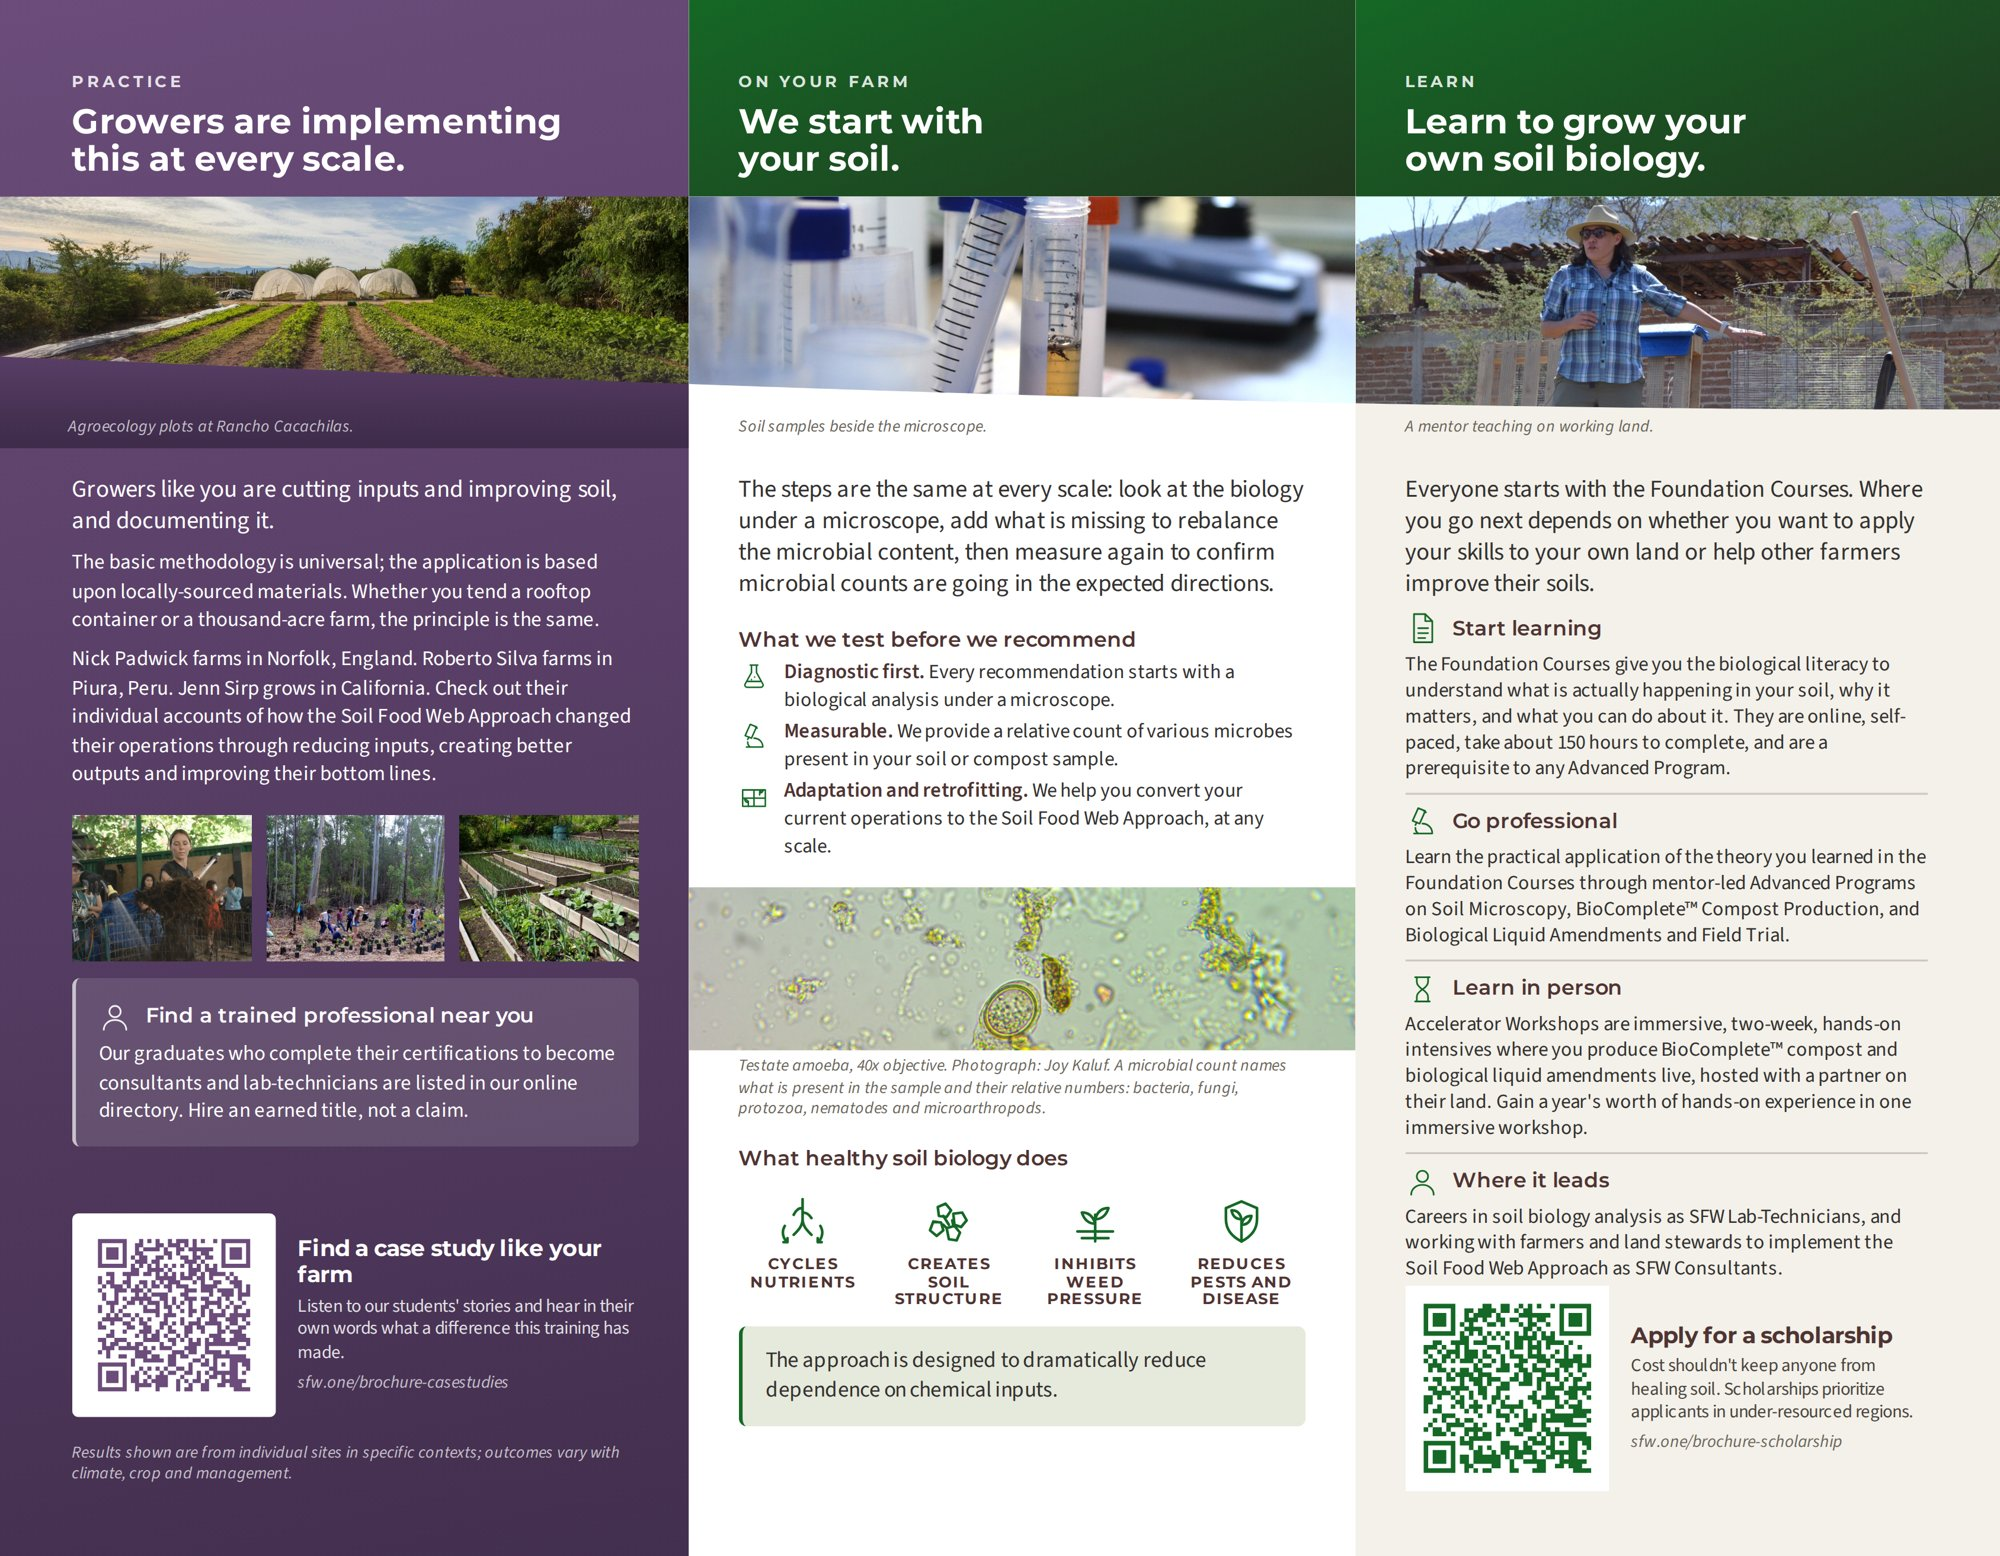
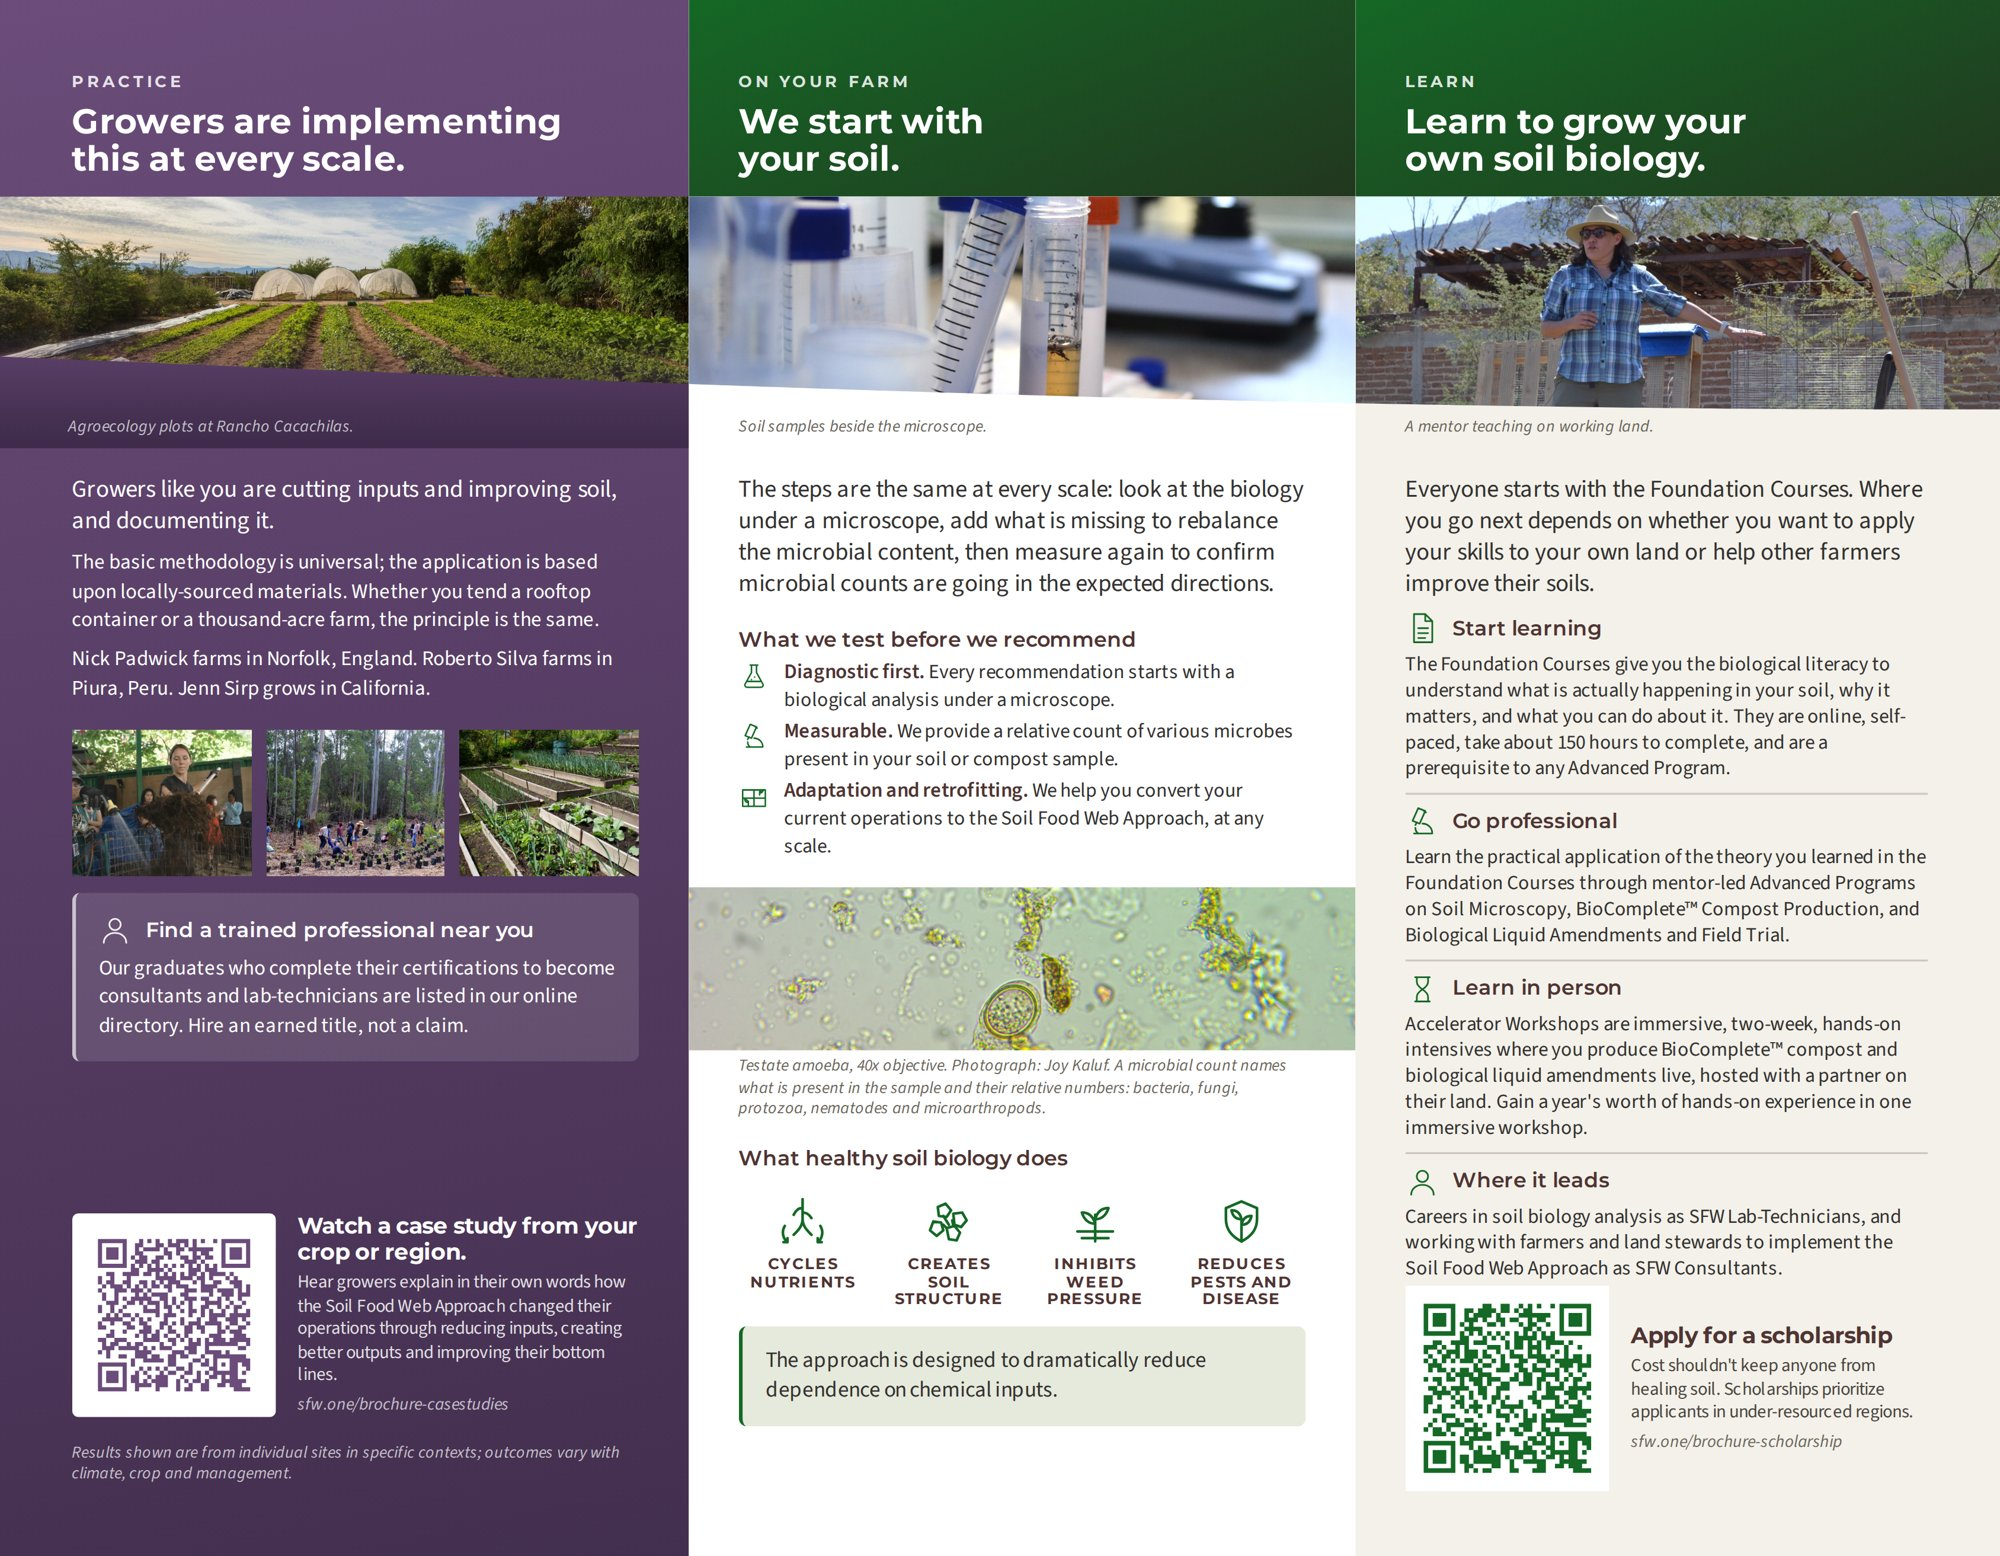
Trifold for farmers: case study QR speaks to growers; outcome line moved beside it
Claude-Session: https://claude.ai/code/session_01Two6wTBX3BHPyNb7hsdtRq

Changed region(s): [[0.031, 0.4319, 0.341, 0.7404], [0.155, 0.7712, 0.31, 0.9254]]

diff --git a/trifold-farmers/build/inside.html b/trifold-farmers/build/inside.html
@@ -70,10 +70,7 @@
         thousand-acre farm, the principle is the same.</p>
 
       <p>Nick Padwick farms in Norfolk, England. Roberto Silva farms in Piura,
-        Peru. Jenn Sirp grows in California. Check out their individual accounts
-        of how the Soil Food Web Approach changed their operations through
-        reducing inputs, creating better outputs and improving their bottom
-        lines.</p>
+        Peru. Jenn Sirp grows in California.</p>
 
       <figure class="figure figure--trio">
         <img src="/img/ctpfw-student-moving-compost-1.jpg" alt="" style="object-position:50% 45%">
@@ -93,9 +90,10 @@
       <div class="qr">
         <img src="qr/case-studies-purple.svg" alt="">
         <div>
-          <div class="t">Find a case study like your farm</div>
-          <div class="d">Listen to our students' stories and hear in their own
-            words what a difference this training has made.</div>
+          <div class="t">Watch a case study from your crop or region.</div>
+          <div class="d">Hear growers explain in their own words how the Soil
+            Food Web Approach changed their operations through reducing inputs,
+            creating better outputs and improving their bottom lines.</div>
           <div class="h">sfw.one/brochure-casestudies</div>
         </div>
       </div>
